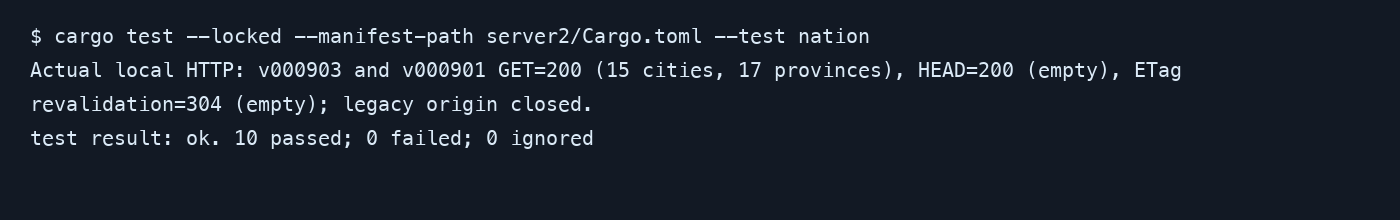
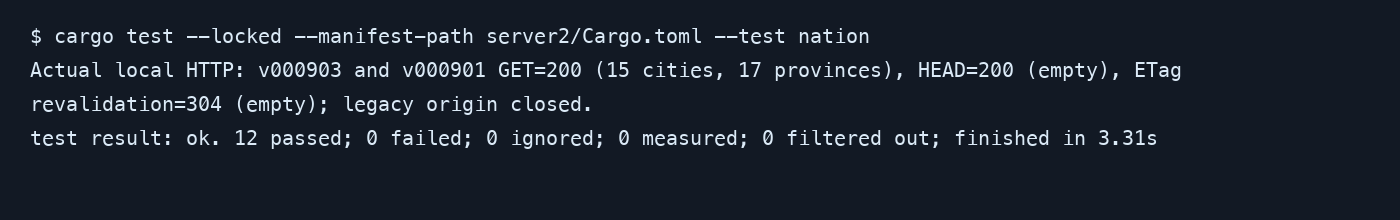
docs(server2): record nation child request compatibility checks

Changed region(s): [[0.43, 0.5727, 0.8293, 0.6818], [0.1536, 0.6, 0.1843, 0.6545]]

diff --git a/docs/architecture/diagrams/server2-nation.html b/docs/architecture/diagrams/server2-nation.html
@@ -4982,7 +4982,7 @@ OTHER DEALINGS IN THE FONT SOFTWARE.
       </div>
     </div>
 
-    <script id="archify-source-evidence-data" type="application/json">{"schemaVersion":1,"verified":true,"repository":{"url":"https://github.com/WizardFactory/TodayWeather","revision":"e3c1ff95aaf929f0bd361d139366d8f61418eaa7","shortRevision":"e3c1ff9","label":"WizardFactory/TodayWeather","href":"https://github.com/WizardFactory/TodayWeather/tree/e3c1ff95aaf929f0bd361d139366d8f61418eaa7"},"referenceCount":8,"nodes":{"client":[{"path":"client/www/js/service.weatherutil.js","line":909,"href":"https://github.com/WizardFactory/TodayWeather/blob/e3c1ff95aaf929f0bd361d139366d8f61418eaa7/client/www/js/service.weatherutil.js#L909"}],"nation":[{"path":"server2/src/nation/mod.rs","line":78,"href":"https://github.com/WizardFactory/TodayWeather/blob/e3c1ff95aaf929f0bd361d139366d8f61418eaa7/server2/src/nation/mod.rs#L78"}],"cities":[{"path":"server2/src/nation/mod.rs","line":87,"href":"https://github.com/WizardFactory/TodayWeather/blob/e3c1ff95aaf929f0bd361d139366d8f61418eaa7/server2/src/nation/mod.rs#L87"}],"air":[{"path":"server2/src/domestic/kma/source/air_input.rs","line":1039,"href":"https://github.com/WizardFactory/TodayWeather/blob/e3c1ff95aaf929f0bd361d139366d8f61418eaa7/server2/src/domestic/kma/source/air_input.rs#L1039"},{"path":"server2/src/domestic/kma/source/live.rs","line":260,"endLine":279,"href":"https://github.com/WizardFactory/TodayWeather/blob/e3c1ff95aaf929f0bd361d139366d8f61418eaa7/server2/src/domestic/kma/source/live.rs#L260-L279"}],"s3":[{"path":"server2/src/domestic/kma/source/records.rs","line":1,"href":"https://github.com/WizardFactory/TodayWeather/blob/e3c1ff95aaf929f0bd361d139366d8f61418eaa7/server2/src/domestic/kma/source/records.rs#L1"}],"provider":[{"path":"server2/src/domestic/kma/source/live.rs","line":260,"endLine":279,"href":"https://github.com/WizardFactory/TodayWeather/blob/e3c1ff95aaf929f0bd361d139366d8f61418eaa7/server2/src/domestic/kma/source/live.rs#L260-L279"},{"path":"server2/src/world/air_chain.rs","line":445,"href":"https://github.com/WizardFactory/TodayWeather/blob/e3c1ff95aaf929f0bd361d139366d8f61418eaa7/server2/src/world/air_chain.rs#L445"}]}}</script>
+    <script id="archify-source-evidence-data" type="application/json">{"schemaVersion":1,"verified":true,"repository":{"url":"https://github.com/WizardFactory/TodayWeather","revision":"b92a8e5aa71cd443d86bcbd60556a16b6c915098","shortRevision":"b92a8e5","label":"WizardFactory/TodayWeather","href":"https://github.com/WizardFactory/TodayWeather/tree/b92a8e5aa71cd443d86bcbd60556a16b6c915098"},"referenceCount":9,"nodes":{"client":[{"path":"client/www/js/service.weatherutil.js","line":909,"href":"https://github.com/WizardFactory/TodayWeather/blob/b92a8e5aa71cd443d86bcbd60556a16b6c915098/client/www/js/service.weatherutil.js#L909"}],"nation":[{"path":"server2/src/nation/mod.rs","line":78,"href":"https://github.com/WizardFactory/TodayWeather/blob/b92a8e5aa71cd443d86bcbd60556a16b6c915098/server2/src/nation/mod.rs#L78"}],"cities":[{"path":"server2/src/nation/mod.rs","line":87,"href":"https://github.com/WizardFactory/TodayWeather/blob/b92a8e5aa71cd443d86bcbd60556a16b6c915098/server2/src/nation/mod.rs#L87"},{"path":"server2/src/api/mod.rs","line":117,"endLine":138,"href":"https://github.com/WizardFactory/TodayWeather/blob/b92a8e5aa71cd443d86bcbd60556a16b6c915098/server2/src/api/mod.rs#L117-L138"}],"air":[{"path":"server2/src/domestic/kma/source/air_input.rs","line":1039,"href":"https://github.com/WizardFactory/TodayWeather/blob/b92a8e5aa71cd443d86bcbd60556a16b6c915098/server2/src/domestic/kma/source/air_input.rs#L1039"},{"path":"server2/src/domestic/kma/source/live.rs","line":260,"endLine":279,"href":"https://github.com/WizardFactory/TodayWeather/blob/b92a8e5aa71cd443d86bcbd60556a16b6c915098/server2/src/domestic/kma/source/live.rs#L260-L279"}],"s3":[{"path":"server2/src/domestic/kma/source/records.rs","line":1,"href":"https://github.com/WizardFactory/TodayWeather/blob/b92a8e5aa71cd443d86bcbd60556a16b6c915098/server2/src/domestic/kma/source/records.rs#L1"}],"provider":[{"path":"server2/src/domestic/kma/source/live.rs","line":260,"endLine":279,"href":"https://github.com/WizardFactory/TodayWeather/blob/b92a8e5aa71cd443d86bcbd60556a16b6c915098/server2/src/domestic/kma/source/live.rs#L260-L279"},{"path":"server2/src/world/air_chain.rs","line":445,"href":"https://github.com/WizardFactory/TodayWeather/blob/b92a8e5aa71cd443d86bcbd60556a16b6c915098/server2/src/world/air_chain.rs#L445"}]}}</script>
     <script id="archify-i18n-data" type="application/json">{"locale":"en","messages":{"viewer.kind.frontend":"Frontend","viewer.kind.backend":"Backend","viewer.kind.database":"Database","viewer.kind.cloud":"Cloud","viewer.kind.security":"Security","viewer.kind.messagebus":"Message bus","viewer.kind.external":"External","viewer.kind.neutral":"Neutral","viewer.kind.node":"Node","viewer.kind.start":"Start","viewer.kind.active":"Active","viewer.kind.waiting":"Waiting","viewer.kind.decision":"Decision","viewer.kind.success":"Success","viewer.kind.failure":"Failure","viewer.toolbar.actions":"Diagram actions","viewer.theme.toggle.title":"Toggle theme (T)","viewer.theme.toggle":"Toggle color theme","viewer.theme.dark":"Dark","viewer.theme.light":"Light","viewer.preset.choose.title":"Choose visual style (S cycles)","viewer.preset.choose":"Choose visual style","viewer.preset.style":"Style","viewer.preset.menu":"Visual style","viewer.preset.identity":"Visual identity","viewer.preset.cycles":"to cycle","viewer.preset.classic":"Classic","viewer.preset.classic.short":"Classic","viewer.preset.classic.hint":"Stable technical default","viewer.preset.flow":"Signal Flow","viewer.preset.flow.short":"Flow","viewer.preset.flow.hint":"Motion-forward presentation","viewer.preset.blueprint":"Blueprint","viewer.preset.blueprint.hint":"Engineering review","viewer.preset.editorial":"Editorial","viewer.preset.editorial.hint":"Publication and launch notes","viewer.preset.badge.signalFlow":"SIGNAL FLOW","viewer.preset.badge.blueprint":"BLUEPRINT / REV 01","viewer.preset.badge.editorial":"EDITORIAL / FIELD NOTE","viewer.preset.badge.editorialPlate":"ARCHIFY / PLATE 04","viewer.preset.current":"Visual style: {style}. Choose visual style","viewer.motion.live":"Live","viewer.motion.still":"Still","viewer.motion.pause":"Pause motion","viewer.motion.resume":"Resume motion","viewer.motion.reduced":"Motion paused by reduced-motion preference","viewer.motion.hidden":"Motion paused while this page is hidden","viewer.motion.yielding":"Pause motion; currently yielding to {owner}","viewer.motion.yielding.title":"Live preview enabled · yielding to {owner}","viewer.owner.route":"Route Probe","viewer.owner.lens":"Semantic Lens","viewer.owner.relationship":"Relationship Preview","viewer.owner.intent":"Intent Trace","viewer.owner.focus":"semantic focus","viewer.owner.legend":"legend preview","viewer.owner.reader":"reader interaction","viewer.present.enter":"Enter presentation stage","viewer.present.enter.title":"Presentation stage (F)","viewer.present.exit":"Exit presentation stage","viewer.present.exit.title":"Exit presentation stage (F or Escape)","viewer.present.present":"Present","viewer.present.exit.label":"Exit","viewer.export.button":"Export","viewer.export.button.title":"Export diagram (E)","viewer.export.diagram":"Export diagram","viewer.export.menu":"Export","viewer.export.subtitle":"Portable, clean outputs","viewer.export.share":"Share","viewer.export.shareCard":"Share Card","viewer.export.routeShareCard":"Route Share Card","viewer.export.reachShareCard":"Reach Share Card","viewer.export.copyDiagram":"Copy diagram","viewer.export.clipboardPng":"PNG to clipboard","viewer.export.raster":"Raster images","viewer.export.image":"Image","viewer.export.lossless":"Lossless image","viewer.export.compact":"Compact image","viewer.export.modern":"Modern image","viewer.export.vectorMotion":"Vector and motion","viewer.export.vectorMotion.heading":"Vector \u0026 motion","viewer.export.editable":"Editable vector","viewer.export.svg.auto":"SVG · Auto","viewer.export.svg.auto.hint":"Matches host theme","viewer.export.svg.light":"SVG · Light","viewer.export.svg.light.hint":"Always light","viewer.export.svg.dark":"SVG · Dark","viewer.export.svg.dark.hint":"Always dark","viewer.export.motion6s":"6s motion","viewer.export.unsupported":"Not supported by this browser","viewer.export.clipboardUnsupported":"Clipboard image write not supported by this browser","viewer.export.clipboardUnsupported.short":"Clipboard image write not supported in this browser.","viewer.export.motionUnavailable":"Motion capture unavailable in this browser","viewer.export.webmUnavailable":"WebM unavailable in this browser","viewer.export.failed":"Export failed: {message}","viewer.export.unknownVariant":"Unknown Share Card variant: {variant}","viewer.export.routeRequired":"Trace a route before exporting a Route Share Card","viewer.export.reachRequired":"Trace authored reach before exporting a Reach Share Card","viewer.export.unknown":"unknown","viewer.export.routeFailed":"Route Share Card export failed: {message}","viewer.export.reachFailed":"Reach Share Card export failed: {message}","viewer.export.copyFailed":"Copy failed: {message}","viewer.export.copiedPng":"Copied PNG to clipboard","viewer.export.downloadedRoute":"Downloaded Route Share Card","viewer.export.downloadedReach":"Downloaded Reach Share Card","viewer.export.downloadedWebm":"Downloaded WebM","viewer.export.recording":"Recording 6 seconds of motion…","viewer.export.card.routeSummary.one":"Path: {source} → {target} · {count} step","viewer.export.card.routeSummary.other":"Path: {source} → {target} · {count} steps","viewer.export.card.reachSummary":"Authored {direction} from {origin} · {nodes} · {links} · max {hops}","viewer.export.card.node.one":"{count} node","viewer.export.card.node.other":"{count} nodes","viewer.export.card.link.one":"{count} link","viewer.export.card.link.other":"{count} links","viewer.export.card.hop.one":"{count} hop","viewer.export.card.hop.other":"{count} hops","viewer.export.card.routeBadge":"ARCHIFY · ROUTE · {hops}","viewer.export.card.reachBadge":"ARCHIFY · {direction} REACH","viewer.export.direction.upstream":"Upstream","viewer.export.direction.downstream":"Downstream","viewer.export.error.canvasUnavailable":"Canvas unavailable for {label}","viewer.export.error.contextUnavailable":"2D canvas context unavailable for {label}","viewer.export.error.toBlobUnavailable":"canvas.toBlob unavailable for {label}","viewer.export.error.toBlobNull":"canvas.toBlob returned no data for {label}","viewer.export.error.variantsCombined":"Share Card variants cannot be combined","viewer.export.error.viewerState":"Share Card export could not remove temporary viewer state","viewer.export.error.routeState":"Route Card export could not preserve the resolved route safely","viewer.export.error.reachState":"Reach Card export could not preserve authored reach safely","viewer.export.error.webmRequirements":"WebM motion export requires a trace animation and browser MediaRecorder support","viewer.export.error.mediaRecorder":"MediaRecorder failed","viewer.export.error.emptyWebm":"MediaRecorder produced an empty WebM","viewer.export.error.webmBackground":"SVG background could not be loaded for WebM export","viewer.guide.title":"Explore this system","viewer.focus.selectedNodes":"{count} selected nodes","viewer.guide.eyebrow":"Diagram guide","viewer.guide.close":"Close diagram guide","viewer.guide.inspecting":"Inspecting compiled semantics","viewer.guide.actions":"Diagram exploration actions","viewer.guide.find":"Find any node","viewer.guide.find.hint":"Search labels, responsibilities, kinds, and stable IDs.","viewer.guide.route":"Trace a route","viewer.guide.route.aria":"Trace a directed route","viewer.guide.route.hint":"Ask how two semantic nodes connect in authored direction.","viewer.guide.map":"See the whole system","viewer.guide.map.hint":"Open Semantic Radar with a live viewport and stable nodes.","viewer.guide.lens":"Compare semantic kinds","viewer.guide.lens.hint":"Count roles, reveal their traffic, and compare direct authored links.","viewer.guide.present":"Enter Presentation Stage","viewer.guide.present.hint":"Give the live diagram the viewport without changing export.","viewer.guide.shortcuts":"Additional keyboard shortcuts","viewer.guide.shortcut.export":"Export","viewer.guide.shortcut.theme":"Theme","viewer.guide.shortcut.style":"Style","viewer.guide.shortcut.reset":"Reset","viewer.guide.shortcut.zoomIn":"Zoom in","viewer.guide.shortcut.zoomOut":"Zoom out","viewer.guide.shortcut.close":"Close","viewer.guide.facts":"{nodes} · {relationships}","viewer.guide.fact.node.one":"{count} semantic node","viewer.guide.fact.node.other":"{count} semantic nodes","viewer.guide.fact.relationship.one":"{count} relationship","viewer.guide.fact.relationship.other":"{count} relationships","viewer.guide.open":"Open diagram guide","viewer.finder.title":"Find a node","viewer.finder.close":"Close node finder","viewer.finder.placeholder":"Search labels or IDs","viewer.finder.search":"Search diagram nodes","viewer.finder.results":"Diagram nodes","viewer.finder.empty":"No matching nodes","viewer.finder.result.focus":"Focus {label}","viewer.finder.result.routeStart":"Choose {label} as route start","viewer.finder.result.routeTarget":"Choose {label} as route destination, {links}","viewer.finder.status.empty":"No matching nodes","viewer.finder.status.count.one":"{count} matching node","viewer.finder.status.count.other":"{count} matching nodes","viewer.finder.noun.nodes":"nodes","viewer.finder.link.one":"{count} link","viewer.finder.link.other":"{count} links","viewer.finder.result.focus.one":"Focus {label}, {count} related connection","viewer.finder.result.focus.other":"Focus {label}, {count} related connections","viewer.finder.status.filtered":"{visible} of {available} {noun}","viewer.finder.status.all":"{available} {noun}","viewer.passport.eyebrow":"Semantic passport","viewer.passport.metadata":"Node metadata","viewer.passport.evidence":"Verified source evidence","viewer.passport.verified":"Verified source","viewer.passport.verificationScope":"Verified against local Git at the pinned revision. Remote access has not been checked.","viewer.passport.reach":"Authored reach","viewer.passport.reach.trace":"Trace authored reachability","viewer.passport.upstream":"Upstream","viewer.passport.downstream":"Downstream","viewer.passport.upstream.trace":"Trace upstream authored reachability","viewer.passport.downstream.trace":"Trace downstream authored reachability","viewer.passport.close":"Close semantic passport","viewer.passport.move":"Move semantic passport. Drag, use arrow keys, or press Home to reset.","viewer.passport.copy":"Copy link","viewer.passport.copy.focus":"Copy link to focused node","viewer.passport.relations":"Relations","viewer.passport.relations.show":"Show connected relationships","viewer.passport.relations.hide":"Hide connected relationships","viewer.passport.relations.list":"Connected relationships","viewer.passport.copyRelation":"Copy relation","viewer.passport.copyNode":"Copy node","viewer.passport.copyPinned":"Copy link to pinned relationship","viewer.passport.copySource":"Copy link to source node","viewer.passport.copy.focused.success":"Focused node link copied","viewer.passport.copy.pinned.success":"Pinned relationship link copied","viewer.passport.copy.focused.failed":"Could not copy focused node link","viewer.passport.copy.pinned.failed":"Could not copy pinned relationship link","viewer.passport.relationship.none":"No connected relationships","viewer.passport.relationship.count.one":"{count} relation","viewer.passport.relationship.count.other":"{count} relations","viewer.passport.relationship.show.one":"Show {count} connected relationship","viewer.passport.relationship.show.other":"Show {count} connected relationships","viewer.passport.relationship.summary":"{out} outgoing · {in} incoming{loops}","viewer.passport.relationship.loops":" · {count} loop","viewer.passport.relationship.explorer":"Direct relationship explorer","viewer.passport.relationship.help":"Use arrow keys to explore relationships. Press Enter or Space to pin details; Escape clears.","viewer.passport.relationship.loopsBack":"loops back","viewer.passport.relationship.connectsTo":"connects to","viewer.passport.relationship.connectsFrom":"connects from","viewer.passport.relationship.pinned":"Pinned relationship · {from} → {to} · {label}","viewer.passport.relationship.inspect":"Inspect relationship {index} of {total}: {from} to {to}, {label}. Press Enter for details.","viewer.passport.relationship.group.out":"Outgoing","viewer.passport.relationship.group.in":"Incoming","viewer.passport.relationship.group.loop":"Self loops","viewer.passport.relationship.row":"{group}: {relationship}, {neighbor}","viewer.passport.relationship.direction.out":"OUT →","viewer.passport.relationship.direction.in":"← IN","viewer.passport.relationship.direction.loop":"LOOP","viewer.passport.sourceCount.one":"{count} verified source reference","viewer.passport.sourceCount.other":"{count} verified source references","viewer.passport.sourceMarker":"SRC","viewer.passport.beacon.one":"{count} verified source; focus this node to inspect","viewer.passport.beacon.other":"{count} verified sources; focus this node to inspect","viewer.passport.repository.open":"Open verified repository revision {revision}","viewer.passport.source.open":"Open verified source {path} at revision {revision}","viewer.passport.source.openLink":"Open ↗","viewer.passport.reach.upstream.one":"Trace {count} upstream authored node","viewer.passport.reach.upstream.other":"Trace {count} upstream authored nodes","viewer.passport.reach.downstream.one":"Trace {count} downstream authored node","viewer.passport.reach.downstream.other":"Trace {count} downstream authored nodes","viewer.passport.reach.noUpstream":"No upstream authored nodes","viewer.passport.reach.noDownstream":"No downstream authored nodes","viewer.passport.reach.status":"{direction} · {nodes} nodes · {links} links · max {hops} hops","viewer.route.eyebrow":"Path","viewer.route.start":"Click where the path starts","viewer.route.start.find":"Find start","viewer.route.start.find.aria":"Find a route start","viewer.route.copy":"Copy link","viewer.route.copy.aria":"Copy link to traced route","viewer.route.clear":"Clear","viewer.route.clear.aria":"Clear route probe","viewer.route.traced":"Path","viewer.route.pickTwo":"Click two nodes on the diagram","viewer.route.pickOne":"Click a node on the diagram","viewer.route.controls":"Route journey controls","viewer.route.previous":"Previous route position","viewer.route.play":"Play route journey","viewer.route.pause":"Pause route journey","viewer.route.replay":"Replay route journey","viewer.route.next":"Next route position","viewer.route.journey":"Journey","viewer.route.pause.label":"Pause","viewer.route.replay.label":"Replay","viewer.route.overview":"Overview","viewer.route.overview.aria":"Show complete route overview","viewer.route.instructions":"Click a start, then an end. Paths follow the arrows.","viewer.route.destination":"Where does the path from {label} end?","viewer.route.destination.find":"Find target","viewer.route.destination.find.aria":"Find a reachable route destination","viewer.route.differentDestination":"Choose a different destination","viewer.route.distinct":"Pick two different nodes.","viewer.route.unreachable":"Cannot reach {label} from here","viewer.route.unreachable.detail":"{target} cannot be reached from {source} along the arrows. Pick a highlighted node.","viewer.route.start.instructions":"Next, pick the end. Only nodes you can reach will light up.","viewer.route.copy.success":"Traced route link copied","viewer.route.copy.failed":"Could not copy traced route link","viewer.route.position":"Route position {index} of {total}: {label}","viewer.route.step":"Step {index} of {total} · {phase} · {label}","viewer.route.motionRequired":"Automatic journey requires Live motion","viewer.route.trigger.clear":"Clear traced route","viewer.route.overview.status":"{nodes} · {hops} · shortest path","viewer.route.overview.node.one":"{count} node","viewer.route.overview.node.other":"{count} nodes","viewer.route.overview.hop.one":"{count} step","viewer.route.overview.hop.other":"{count} steps","viewer.route.phase.playing":"Playing","viewer.route.phase.complete":"Complete","viewer.route.phase.inspecting":"Inspecting","viewer.route.destination.count.one":"{count} reachable node is highlighted. Click it.","viewer.route.destination.count.other":"{count} reachable nodes are highlighted. Click one.","viewer.route.noOutgoing":"No arrows lead out of this node. Clear it and pick another start.","viewer.route.result.title":"{source} to {target}","viewer.route.finder.source.title":"Choose route start","viewer.route.finder.source.placeholder":"Search route sources","viewer.route.finder.source.empty":"No matching route sources","viewer.route.finder.source.results":"Nodes that can start a route","viewer.route.finder.source.noun":"route sources","viewer.route.finder.source.badge":"start","viewer.route.finder.target.title":"Destination from {label}","viewer.route.finder.target.placeholder":"Search reachable destinations","viewer.route.finder.target.empty":"No matching reachable destinations","viewer.route.finder.target.results":"Reachable route destinations","viewer.route.finder.target.noun":"reachable destinations","viewer.route.hop.one":"{count} hop","viewer.route.hop.other":"{count} hops","viewer.lens.eyebrow":"Semantic lens","viewer.lens.title":"Compare system roles","viewer.lens.close":"Close semantic lens","viewer.lens.instruction":"Choose up to two semantic kinds. One reveals its real traffic; two compare only direct authored relationships.","viewer.lens.kinds":"Semantic kinds","viewer.lens.choose":"Choose a kind to inspect its nodes and touching relationships.","viewer.lens.copy":"Copy link to semantic lens","viewer.lens.clear":"Clear semantic lens","viewer.lens.open":"Open semantic lens","viewer.lens.openActive":"Open active semantic lens","viewer.lens.legend":"Semantic legend","viewer.lens.legend.inspect.one":"Inspect {label}, {count} node","viewer.lens.legend.inspect.other":"Inspect {label}, {count} nodes","viewer.lens.kind.count.one":"{label}, {count} node","viewer.lens.kind.count.other":"{label}, {count} nodes","viewer.lens.compare.one":"{first} → {second}: {forward} · {second} → {first}: {reverse} · {count} direct relationship","viewer.lens.compare.other":"{first} → {second}: {forward} · {second} → {first}: {reverse} · {count} direct relationships","viewer.lens.single":"{nodes} · {relationships} · connected peers remain visible","viewer.lens.node.one":"{count} {label} node","viewer.lens.node.other":"{count} {label} nodes","viewer.lens.relationship.one":"{count} touching relationship","viewer.lens.relationship.other":"{count} touching relationships","viewer.radar.title":"Semantic radar","viewer.radar.building":"Building overview","viewer.radar.openFull":"Open full semantic radar","viewer.radar.open":"Open radar","viewer.radar.close":"Close semantic radar","viewer.radar.surface":"Diagram overview. Click a node to focus it, or use arrow keys to pan.","viewer.radar.click":"Click node","viewer.radar.drag":"Drag to pan","viewer.radar.space":"Semantic radar needs more MAP space.","viewer.radar.nodes":"Semantic diagram radar nodes","viewer.radar.focus":"Focus {label} from Semantic Radar","viewer.radar.status":"{count} nodes · {viewport}","viewer.radar.fullMap":"{count} nodes · full map","viewer.radar.compacted":"Radar compacted to avoid covering the Semantic Passport or MAP controls.","viewer.radar.cancelWaiting":"Cancel semantic radar waiting for more MAP space","viewer.radar.needsSpace":"Semantic radar needs more visible MAP space","viewer.radar.viewport.full":"full map","viewer.radar.viewport.width":"{percent}% width","viewer.radar.viewport.scale":"{percent}% viewport","viewer.nav.controls":"Diagram view controls","viewer.nav.route":"Trace a directed route","viewer.nav.route.title":"Trace route (R)","viewer.nav.route.short":"PATH","viewer.nav.radar":"Open semantic radar","viewer.nav.radar.title":"Semantic radar (M)","viewer.nav.radar.short":"MAP","viewer.nav.lens":"Open semantic lens","viewer.nav.lens.title":"Semantic lens (L)","viewer.nav.lens.short":"LENS","viewer.nav.find":"Find a node","viewer.nav.find.title":"Find a node (/)","viewer.outline.title":"Node index","viewer.rail.show":"Notes \u0026 index","viewer.rail.controls":"Side panel","viewer.rail.collapse":"Collapse side panel","viewer.rail.bottom":"Move panel below the diagram","viewer.rail.right":"Move panel beside the diagram","viewer.nav.guide":"Open diagram guide","viewer.nav.guide.title":"Diagram guide (?)","viewer.nav.zoomOut":"Zoom out","viewer.nav.zoomOut.title":"Zoom out (-)","viewer.nav.reset":"Reset diagram view","viewer.nav.reset.title":"Reset view (0)","viewer.nav.read":"READ","viewer.nav.zoomIn":"Zoom in","viewer.nav.zoomIn.title":"Zoom in (+)","viewer.nav.camera":"{hint}. Reset diagram view","viewer.nav.camera.title":"{semantic}{hint} · reset view (0)","viewer.nav.camera.semantic":"Semantic camera active · ","viewer.nav.level.map":"MAP","viewer.nav.level.read":"READ","viewer.nav.level.full":"FULL","viewer.nav.level.auto":"AUTO","viewer.nav.detail.map":"Zoom in to reveal relationship labels and node context","viewer.nav.detail.read":"Zoom in again to reveal tags and annotations","viewer.nav.detail.full":"Full diagram detail","viewer.intent.summary":"{label}. {out} outgoing, {in} incoming{loops}. {total} connections. Press Enter for details.","viewer.intent.loops":", {count} self loop","viewer.common.copied":"Copied","viewer.common.copyFailed":"Copy failed","viewer.common.copyLink":"Copy link","viewer.common.clear":"Clear","viewer.common.close":"Close"}}</script>
     <!-- Main Diagram -->
     <div class="diagram-container" data-detail-level="read"
@@ -5045,7 +5045,7 @@ OTHER DEALINGS IN THE FONT SOFTWARE.
           <rect x="290.59999999999997" y="178" width="183.6" height="18" rx="3" class="c-mask"/>
           <text x="382.4" y="188" class="t-muted" font-size="11" text-anchor="middle">start 15 native assemblies</text>
         </g>
-        <text data-detail="fine" x="317.1" y="216" class="t-dim" font-size="7">Fixed bounded fan-out; same absolute deadline</text>
+        <text data-detail="fine" x="317.1" y="216" class="t-dim" font-size="7">Header-only locale; uppercase V defaults v000901</text>
         </g>
 
         <g data-edge-from="nation" data-edge-to="air" data-edge-label="read province air" data-edge-key="2" data-edge-id="national">
@@ -5167,15 +5167,15 @@ OTHER DEALINGS IN THE FONT SOFTWARE.
           <text data-detail="context" x="298.1" y="122" class="t-muted" font-size="7" text-anchor="middle">one 3 s deadline</text>
         </g>
 
-        <g id="node-cities" data-node-id="cities" data-node-label="15 cities" tabindex="0" role="button" aria-label="Focus 15 cities, same-version KMA, Sequence participant" aria-pressed="false" data-node-kind="backend" data-node-sublabel="same-version KMA" data-node-context="Sequence participant">
-          <title>15 cities · same-version KMA · Sequence participant</title>
+        <g id="node-cities" data-node-id="cities" data-node-label="15 cities" tabindex="0" role="button" aria-label="Focus 15 cities, legacy child version, Sequence participant" aria-pressed="false" data-node-kind="backend" data-node-sublabel="legacy child version" data-node-context="Sequence participant">
+          <title>15 cities · legacy child version · Sequence participant</title>
           <rect x="399.2" y="72" width="135" height="60" rx="6" class="c-mask"/>
           <rect x="399.2" y="72" width="135" height="60" rx="6" class="c-backend" stroke-width="1.5"/>
           <g aria-hidden="true" data-semantic-sigil="backend" class="semantic-sigil s-backend" transform="translate(405.2 78) scale(0.6875)">
             <path d="M6 3 3 8l3 5M10 3l3 5-3 5"/>
           </g>
           <text data-node-label="" data-detail-anchor="" x="466.7" y="108" class="t-primary" font-size="11" font-weight="600" text-anchor="middle">15 cities</text>
-          <text data-detail="context" x="466.7" y="122" class="t-muted" font-size="7" text-anchor="middle">same-version KMA</text>
+          <text data-detail="context" x="466.7" y="122" class="t-muted" font-size="7" text-anchor="middle">legacy child version</text>
         </g>
 
         <g id="node-air" data-node-id="air" data-node-label="Air inputs" tabindex="0" role="button" aria-label="Focus Air inputs, shared acquisitions, Sequence participant" aria-pressed="false" data-node-kind="backend" data-node-sublabel="shared acquisitions" data-node-context="Sequence participant">

diff --git a/docs/operations/server2-nation.md b/docs/operations/server2-nation.md
@@ -1,7 +1,7 @@
 # Native nation API
 
-The native nation route combines fifteen same-version domestic city replies and
-available nationwide air rows. It shares the existing S3 inputs and provider
+The native nation route combines fifteen domestic city replies using legacy version rules
+and available nationwide air rows. It shares the existing S3 inputs and provider
 acquisitions; it never forwards a selected nation request to legacy.
 
 ## Setup
@@ -21,6 +21,9 @@ late acquisition continues independently and is shared by later requests.
 A missing optional provider branch does not by itself turn the response into an
 error. If an actual city dependency fails, the nation route returns the legacy
 rendered 500 error. Successful child replies produce 200.
+An uppercase version prefix (`V000903`) defaults children to v000901, matching
+legacy validation. Children use the forwarded `Accept-Language` header, or English
+when it is absent. The parent locale cookie is not forwarded.
 
 Province air prefers fresh urban-station means. Otherwise it uses a labelled
 representative city point and reports its source and safe reason in `airStatus`.
@@ -49,7 +52,7 @@ cargo clippy --locked --manifest-path server2/Cargo.toml --test nation -- -D war
 ```
 
 For the offline legacy oracle use pinned Node 16.20.2, Mongoose 5.1.2 and the
-legacy async/Jade dependencies. `nation_record.cjs` takes repository and output
+async 2.6.2, Jade 1.11.0 and i18n 0.8.3. `nation_record.cjs` takes repository and output
 paths. It does not load private configuration or contact providers or databases.
 Its city weather dependencies are deterministic doubles; it verifies nation
 composition, not live weather-provider output.

diff --git a/docs/architecture/server2.md b/docs/architecture/server2.md
@@ -2841,9 +2841,12 @@ S3 and answering natively with the Express envelope (JSON with a weak ETag, the 
 
 The `kma` and `kma-v000901` entries also claim the used direct nation routes
 `/v000903/nation/:nation` and `/v000901/nation/:nation`. The nation backend calls
-fifteen same-version native KMA assemblies concurrently with one absolute
+fifteen native KMA assemblies using legacy version rules, concurrently with one absolute
 three-second deadline; it never calls legacy or opens a separate provider source.
 The child replies retain legacy city order after removing `airInfo`/`airInfoList`.
+Mount claiming remains case-insensitive, but an uppercase `V` makes legacy query validation
+remove the version, so city requests default to v000901. Child locale uses only the forwarded
+`Accept-Language` header (English if absent); the parent `twcookie` is not forwarded.
 An actual failed internal child response maps to the legacy rendered 500, as AK
 approved; the response is successful when the internal calls succeed. Other late
 provider branches remain omitted according to the existing KMA partial-data rules.

diff --git a/specs/issue-2702.md b/specs/issue-2702.md
@@ -118,8 +118,11 @@ and both town routers). Unlisted paths keep the previous 404; other methods are 
 `/v000901/nation/:nation`. Express case-insensitive mounts and the optional trailing
 slash remain supported. The legacy route returns `nation: "KR"` for every decoded
 nation parameter; the server does not invent a country-validation rule.
+Uppercase `V000903` is claimed but defaults child version to v000901, matching legacy
+query validation. Child locale comes only from `Accept-Language`, defaulting to English
+without the header; the parent locale cookie is not forwarded to child requests.
 
-Fifteen city responses use the same-version native KMA backend with one absolute
+Fifteen city responses use native KMA backends and legacy version rules with one absolute
 three-second deadline. City `airInfo` and `airInfoList` are removed, preserving all
 other fields and legacy city order. A real failed child request gives the legacy
 500 rendered-error response (AK's approved option b); successful dependencies give

diff --git a/plans/issue-2702.md b/plans/issue-2702.md
@@ -87,3 +87,11 @@ The thirteen-case Node16 oracle was reproduced byte-for-byte. The one-page API
 manual was rendered with PyMuPDF (Poppler unavailable) and inspected; Archify
 artifact checks, actual Chrome inspection and four light/dark viewport captures
 were verified separately. Review and CI remain required before readiness.
+
+S17c QA1 on `1eb3a7bf` found two Required compatibility issues: uppercase-version
+child selection (S17C-R1-F01) and forwarding the parent cookie locale to children
+(S17C-R1-F02). Three actual-legacy cases were added to the pinned oracle (16 total).
+Both new regressions failed before the routing correction and passed afterward;
+all twelve nation tests passed, including the prior ten HTTP/S3/deadline scenarios.
+The earlier 694-test full-workspace result is retained as baseline evidence, not
+claimed rerun for this narrow routing change. Independent QA2 remains pending.
